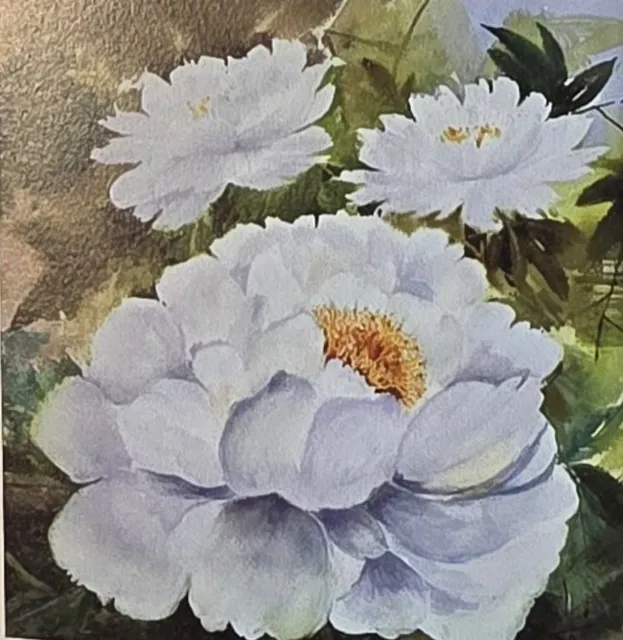
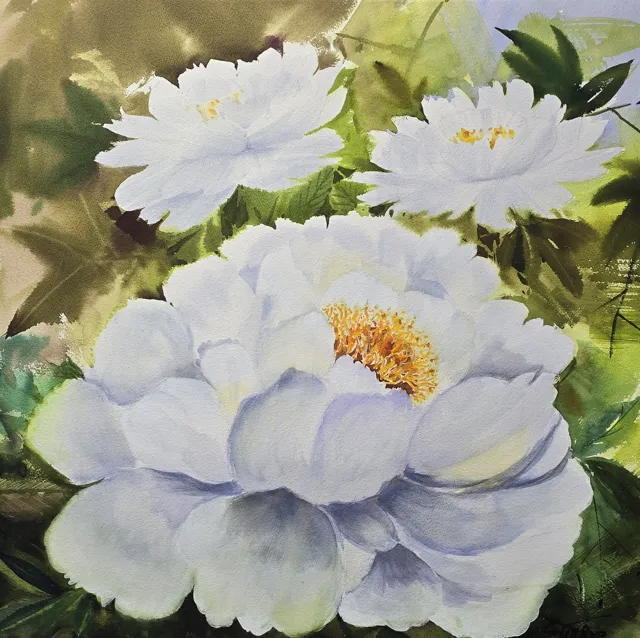
Kim catalog: replace artwork images with gallery photos, add 12th work
Perspective-corrected photos of the actual paintings (long edge 1600px,
no EXIF) replace the brochure scans. Adds the white-peony 부귀영화
(2026, oil, 30F) as work 12; existing numbers kept so watering votes
stay attached to the same works. OG image regenerated.

Claude-Session: https://claude.ai/code/session_012qS8AcSQjkkPuwg6wbz429

diff --git a/exhibition/lib/content.ts b/exhibition/lib/content.ts
@@ -111,19 +111,21 @@ export type Work = {
 const OIL = "캔버스에 유화"
 const WC = "수채화"
 
-// w, h: 이미지 픽셀 크기(레이아웃 흔들림 방지용). 원본으로 교체하면 함께 고친다.
+// w, h: 이미지 픽셀 크기(레이아웃 흔들림 방지용). 2026-11-12 전시장 실물 사진(긴 변 1600px)으로 교체.
+// 12번은 전시장에서 추가로 확인한 작품. 번호는 물주기 기록과 연결되므로 기존 번호는 바꾸지 않는다.
 export const works: Work[] = [
-  { no: 1, file: "01_bugui_651x909", title: "부귀영화", year: "2026", medium: OIL, mediumEn: "oil on canvas", size: "65.1 × 90.9 cm", desc: "붉은 모란 꽃무리와 흐린 하늘", w: 1286, h: 1005 },
-  { no: 2, file: "02_haengbokgadeuk", title: "행복가득", year: "2025", medium: WC, mediumEn: "watercolor", size: "65.1 × 53 cm", desc: "흰 달항아리에 꽂힌 목련 가지", w: 659, h: 762 },
-  { no: 3, file: "03_bugui_53x45", title: "부귀영화", year: "2026", medium: OIL, mediumEn: "oil on canvas", size: "53 × 45 cm", desc: "진분홍 모란 다발", w: 636, h: 765 },
-  { no: 4, file: "04_gaeulgil", title: "가을길", year: "2025", medium: WC, mediumEn: "watercolor", size: "90.9 × 72.7 cm", desc: "노랗게 물든 자작나무 숲", w: 990, h: 1400 },
-  { no: 5, file: "05_sarang", title: "사랑", year: "2026", medium: OIL, mediumEn: "oil on canvas", size: "72.7 × 60.6 cm", desc: "파란 하늘 아래 해바라기", w: 834, h: 1053 },
-  { no: 6, file: "06_sunsuhan_maeum", title: "순수한 마음", year: "2024", medium: WC, mediumEn: "watercolor", size: "72.7 × 60.6 cm", desc: "흰 모란 세 송이", w: 650, h: 668 },
-  { no: 7, file: "07_haengbok", title: "행복", year: "2024", medium: WC, mediumEn: "watercolor", size: "72.7 × 60.6 cm", desc: "활짝 핀 분홍 모란 한 송이", w: 685, h: 700 },
-  { no: 8, file: "08_kkot_4gyejeol", title: "꽃의 4계절", year: "2025", medium: WC, mediumEn: "watercolor", size: "116.8 × 91 cm", desc: "사계절 꽃과 새, 웃는 아이들", w: 1107, h: 1400 },
-  { no: 9, file: "09_hwanhui", title: "환희", year: "2025", medium: WC, mediumEn: "watercolor", size: "90.9 × 72.7 cm", desc: "해바라기와 장미, 수국이 어우러진 꽃밭", w: 1002, h: 987 },
-  { no: 10, file: "10_paran_haneul", title: "파란 하늘", year: "2026", medium: OIL, mediumEn: "oil on canvas", size: "45 × 53 cm", desc: "파란 하늘 아래 흰 모란", w: 660, h: 573 },
-  { no: 11, file: "11_bugui_45x53", title: "부귀영화", year: "2026", medium: OIL, mediumEn: "oil on canvas", size: "45 × 53 cm", desc: "짙은 붉은 모란", w: 676, h: 571 },
+  { no: 1, file: "01_bugui_651x909", title: "부귀영화", year: "2026", medium: OIL, mediumEn: "oil on canvas", size: "65.1 × 90.9 cm", desc: "붉은 모란 꽃무리와 흐린 하늘", w: 1562, h: 1236 },
+  { no: 2, file: "02_haengbokgadeuk", title: "행복가득", year: "2025", medium: WC, mediumEn: "watercolor", size: "65.1 × 53 cm", desc: "흰 달항아리에 꽂힌 목련 가지", w: 1334, h: 1562 },
+  { no: 3, file: "03_bugui_53x45", title: "부귀영화", year: "2026", medium: OIL, mediumEn: "oil on canvas", size: "53 × 45 cm", desc: "진분홍 모란 다발", w: 1359, h: 1562 },
+  { no: 4, file: "04_gaeulgil", title: "가을길", year: "2025", medium: WC, mediumEn: "watercolor", size: "90.9 × 72.7 cm", desc: "노랗게 물든 자작나무 숲", w: 1126, h: 1562 },
+  { no: 5, file: "05_sarang", title: "사랑", year: "2026", medium: OIL, mediumEn: "oil on canvas", size: "72.7 × 60.6 cm", desc: "파란 하늘 아래 해바라기", w: 1139, h: 1562 },
+  { no: 6, file: "06_sunsuhan_maeum", title: "순수한 마음", year: "2024", medium: WC, mediumEn: "watercolor", size: "72.7 × 60.6 cm", desc: "흰 모란 세 송이", w: 1562, h: 1557 },
+  { no: 7, file: "07_haengbok", title: "행복", year: "2024", medium: WC, mediumEn: "watercolor", size: "72.7 × 60.6 cm", desc: "활짝 핀 분홍 모란 한 송이", w: 1562, h: 1555 },
+  { no: 8, file: "08_kkot_4gyejeol", title: "꽃의 4계절", year: "2025", medium: WC, mediumEn: "watercolor", size: "116.8 × 91 cm", desc: "사계절 꽃과 새, 웃는 아이들", w: 1233, h: 1562 },
+  { no: 9, file: "09_hwanhui", title: "환희", year: "2025", medium: WC, mediumEn: "watercolor", size: "90.9 × 72.7 cm", desc: "해바라기와 장미, 수국이 어우러진 꽃밭", w: 1562, h: 1561 },
+  { no: 10, file: "10_paran_haneul", title: "파란 하늘", year: "2026", medium: OIL, mediumEn: "oil on canvas", size: "45 × 53 cm", desc: "파란 하늘 아래 흰 모란", w: 1562, h: 1334 },
+  { no: 11, file: "11_bugui_45x53", title: "부귀영화", year: "2026", medium: OIL, mediumEn: "oil on canvas", size: "45 × 53 cm", desc: "짙은 붉은 모란", w: 1562, h: 1322 },
+  { no: 12, file: "12_bugui_white", title: "부귀영화", year: "2026", medium: OIL, mediumEn: "oil on canvas", size: "72.7 × 90.9 cm", desc: "파란 하늘 아래 활짝 핀 흰 모란 무리", w: 1562, h: 1263 },
 ]
 
 export const workSrc = (w: Work) => `/works/${w.file}.webp`
@@ -152,6 +154,6 @@ export const share = {
 export const rain = {
   showBaseline: true,
   max: 3,
-  baseline: { 1: 5, 2: 3, 3: 4, 4: 2, 5: 5, 6: 1, 7: 3, 8: 4, 9: 2, 10: 3, 11: 1 } as Record<number, number>,
+  baseline: { 1: 5, 2: 3, 3: 4, 4: 2, 5: 5, 6: 1, 7: 3, 8: 4, 9: 2, 10: 3, 11: 1, 12: 3 } as Record<number, number>,
   guide: "글을 남기시면 마음에 드는 꽃(작품)에 물을 주실 수 있으십니다. (최대 3개)",
 }
